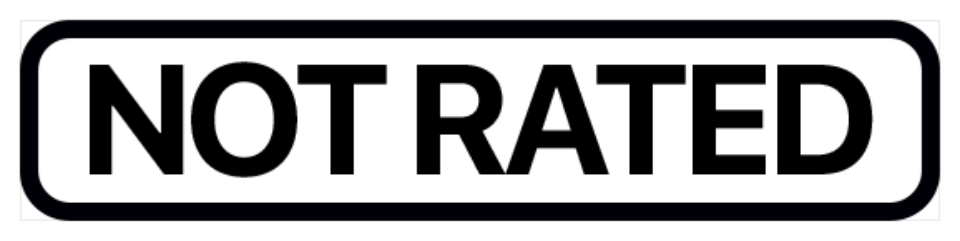
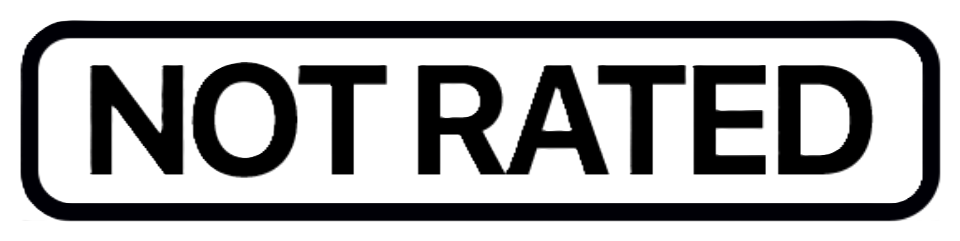
newbar

diff --git a/stage3/metadata/builders/iconbar.tsx b/stage3/metadata/builders/iconbar.tsx
@@ -1,0 +1,228 @@
+"use client";
+
+export default function iconbar({
+  footer,
+}: any) {
+  console.log("[FOOTER]", footer);
+
+const columns =
+  "180px 150px 150px 150px 150px 150px";
+
+function formatRuntime(minutes?: number) {
+  if (!minutes) return "";
+
+  const hours = Math.floor(minutes / 60);
+  const mins = minutes % 60;
+
+  if (hours > 0 && mins > 0) {
+    return `${hours}h ${mins}m`;
+  }
+
+  if (hours > 0) {
+    return `${hours}h`;
+  }
+
+  return `${mins}m`;
+}
+
+  return (
+    <div
+      style={{
+        width: 1000,
+        height: 150,
+
+        display: "grid",
+        gridTemplateColumns: columns,
+
+        alignItems: "center",
+
+        background: "#8C6A3B",
+borderTop: "1px solid #5A3E20",
+borderBottom: "1px solid #B08D57",
+
+        boxSizing: "border-box",
+
+        padding: "0 18px",
+
+        columnGap: 10,
+      }}
+    >
+      {/* =========================
+    RATING
+========================= */}
+
+<div
+  style={{
+    display: "flex",
+    justifyContent: "center",
+  }}
+>
+  {footer.rating && (
+    <img
+      src={
+        footer.rating === "not-rated"
+          ? "/assets/meta/mpaa/nr.png"
+          : `/assets/meta/${
+              footer.rating.includes("r18") ||
+              ["18", "15", "12", "12a", "pg", "u"].includes(
+                footer.rating
+              )
+                ? `bbfc/${footer.rating}`
+                : `mpaa/${footer.rating}`
+            }.png`
+      }
+      style={{
+        height:
+          footer.rating === "not-rated"
+            ? 74      // or whatever size matches your new icon
+            : 108,    // existing certification size
+
+        objectFit: "contain",
+      }}
+    />
+  )}
+</div>
+
+      {/* =========================
+          RUNTIME
+      ========================= */}
+
+      <div
+        style={{
+          display: "flex",
+          flexDirection: "column",
+          alignItems: "center",
+          justifyContent: "center",
+          gap: 6,
+        }}
+      >
+        <img
+          src="/assets/meta/runtime/clock.png"
+          style={{
+            height: 50,
+            opacity: 0.8,
+          }}
+        />
+
+        <div
+          style={{
+            fontSize: 32,
+            fontWeight: 700,
+            color: "#222",
+            lineHeight: 1,
+          }}
+        >
+          {formatRuntime(footer.runtime)}
+        </div>
+
+        <div
+          style={{
+            fontSize: 14,
+            letterSpacing: 2,
+            color: "#222",
+          }}
+        >
+          Run Time
+        </div>
+      </div>
+
+      {/* =========================
+          CC
+      ========================= */}
+
+      <div
+  style={{
+    display: "flex",
+    justifyContent: "center",
+  }}
+>
+  <img
+    src={
+      footer.cc
+        ? "/assets/meta/subtitles/cc.png"
+        : "/assets/meta/subtitles/nocc.png"
+    }
+    style={{
+      height: 140,
+    }}
+  />
+</div>
+
+      {/* =========================
+          RESOLUTION
+      ========================= */}
+
+      <div
+        style={{
+          display: "flex",
+          justifyContent: "center",
+        }}
+      >
+        {footer.resolution && (
+          <img
+            src={`/assets/meta/resolution/${footer.resolution}.png`}
+            style={{
+              height: 140,
+            }}
+          />
+        )}
+      </div>
+
+
+      {/* =========================
+          QR / BARCODE
+          ========================= */}
+
+<div
+  style={{
+    display: "flex",
+    justifyContent: "center",
+    alignItems: "center",
+  }}
+>
+{footer.qr?.svg ? (
+  <div
+  style={{
+    width: 140,
+    height: 140,
+  }}
+  dangerouslySetInnerHTML={{
+    __html: footer.qr.svg.replace(
+      "<svg",
+      '<svg width="140" height="140"'
+    ),
+  }}
+/>
+) : (
+  <img
+    src="/assets/meta/barcode/barcode.png"
+    style={{
+      height: 140,
+    }}
+  />
+)}
+</div>
+
+      {/* =========================
+          JB
+      ========================= */}
+
+      <div
+        style={{
+          display: "flex",
+          justifyContent: "center",
+        }}
+      >
+        <img
+          src="/assets/meta/jb/jb.png"
+          style={{
+            height: 140,
+          }}
+        />
+      </div>
+
+      
+      </div>
+    
+  );
+}

diff --git a/stage3/metadata/metadataRegistry.ts b/stage3/metadata/metadataRegistry.ts
@@ -3,6 +3,7 @@ import MinimalBar from "./builders/minimalBar";
 import CinematicBar from "./builders/cinematicBar";
 import CriterionBar from "./builders/criterionBar";
 import SteelbookBar from "./builders/steelbookBar";
+import iconbar from "./builders/iconbar";
 
 export const metadataRegistry = [
   {
@@ -33,5 +34,11 @@ export const metadataRegistry = [
     id: "criterion",
     label: "CRITERION",
     builder: CriterionBar,
+  },
+
+  {
+    id: "iconbar",
+    label: "Icon Bar",
+    builder: iconbar,
   },
 ];

diff --git a/stage3/metadata/resolveMetadataBuilder.tsx b/stage3/metadata/resolveMetadataBuilder.tsx
@@ -3,6 +3,7 @@ import MinimalBar from "./builders/minimalBar";
 import CinematicBar from "./builders/cinematicBar";
 import SteelbookBar from "./builders/steelbookBar";
 import CriterionBar from "./builders/criterionBar";
+import iconbar from "./builders/iconbar";
 
 export function resolveMetadataBuilder(
   style: string
@@ -22,6 +23,9 @@ export function resolveMetadataBuilder(
 
   case "criterion":
     return CriterionBar;
+
+  case "iconbar":
+    return iconbar;  
 
   default:
     return DVDStrip;
